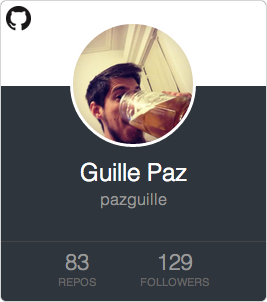
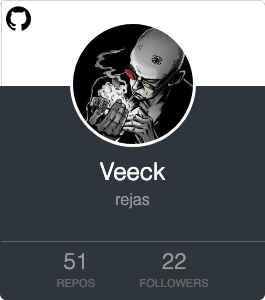
Update documentation

diff --git a/index.html b/index.html
@@ -4,7 +4,7 @@
     <meta charset="UTF-8">
     <meta name="viewport" content="width=device-width, initial-scale=1.0, maximum-scale=1.0, user-scalable=0, minimal-ui">
     <meta name="apple-mobile-web-app-capable" content="yes">
-    <title>&lt;github-card&gt;: A web component to show a profile-card for your Github account.</title>
+    <title>&lt;github-card&gt;: a web component to show a profile-card for your github account.</title>
     <link rel="stylesheet" href="assets/normalize.css">
     <link rel="stylesheet" href="assets/styles.css">
   </head>
@@ -16,11 +16,11 @@
 
     <header>
       <h1>&lt;github-card&gt;</h1>
-      <h2>A web component to show a profile-card for your Github account.</h2>
+      <h2>a web component to show a profile-card for your github account</h2>
     </header>
     <output id="cards">
       <figure>
-        <img src="assets/example.png" width="267" height="302">
+        <img src="assets/example.png" width="265" height="300">
       </figure>
     </output>
 
@@ -30,13 +30,13 @@
     </form>
 
     <footer>
-      <iframe id="twitter" allowtransparency="true" frameborder="0" width="100" height="22" scrolling="no" src="https://platform.twitter.com/widgets/tweet_button.html?text=<github-card>%3A%20A%20Web%20Component%20to%20show%20a%20profile-card%20for%20your%20Github%20account.&amp;url=http%3A%2F%2Fpazguille.github.io%2Fgithub-card"></iframe>
+      <iframe id="twitter" allowtransparency="true" frameborder="0" width="100" height="22" scrolling="no" src="https://platform.twitter.com/widgets/tweet_button.html?text=<github-card>%3A%20A%20Web%20Component%20to%20show%20a%20profile-card%20for%20your%20Github%20account.&amp;url=http%3A%2F%2Frejas.github.io%2Fgithub-card"></iframe>
 
-      <a href="https://github.com/pazguille/github-card" id="github-ribbon"><img width="149" height="149" src="https://s3.amazonaws.com/github/ribbons/forkme_right_darkblue_121621.png" alt="Fork me on GitHub"></a>
+      <a href="https://github.com/rejas/github-card" id="github-ribbon"><img width="149" height="149" src="https://s3.amazonaws.com/github/ribbons/forkme_right_darkblue_121621.png" alt="Fork me on GitHub"></a>
 
-      by <a href="http://pazguille.me/">Guille Paz</a> with <a href="http://welovefrontend.org/" class="heart">❤</a>
+      based on code by <a href="http://pazguille.me/">Guille Paz</a>
 
-      <iframe id="github-button" src="http://ghbtns.com/github-btn.html?user=pazguille&amp;repo=github-card&amp;type=watch&amp;count=true" allowtransparency="true" frameborder="0" scrolling="0" width="152" height="30"></iframe>
+      <iframe id="github-button" src="http://ghbtns.com/github-btn.html?user=rejas&amp;repo=github-card&amp;type=watch&amp;count=true" allowtransparency="true" frameborder="0" scrolling="0" width="152" height="30"></iframe>
     </footer>
 
     <script>

diff --git a/src/github-card.js b/src/github-card.js
@@ -13,7 +13,7 @@ customElements.define('github-card', class extends HTMLElement {
                     font-family: "Helvetica", Arial, sans-serif;
                     display: inline-block;
                     width: 265px;
-                    height: 320px;
+                    height: 300px;
                     overflow: hidden;
                     border-radius: 6px;
                     position: relative;

diff --git a/README.md b/README.md
@@ -1,20 +1,14 @@
 # &lt;github-card&gt;
 
-> A web component to show a profile-card for your Github account.
+a web component to show a profile-card for your github account
+
+based on code by <a href="http://pazguille.me/">Guille Paz</a>
 
 ## How-to
 ```html
-<github-card user="pazguille"></github-card>
+<github-card user="rejas"></github-card>
 ```
 ![Example](assets/example.png)
 
-## Maintained by
-- Guille Paz (Front-end developer | Web standards lover)
-- E-mail: [guille87paz@gmail.com](mailto:guille87paz@gmail.com)
-- Twitter: [@pazguille](http://twitter.com/pazguille)
-- Web: [http://pazguille.me](http://pazguille.me)
-
 ## License
 Licensed under the MIT license.
-
-Copyright (c) 2014 [@pazguille](http://twitter.com/pazguille).
